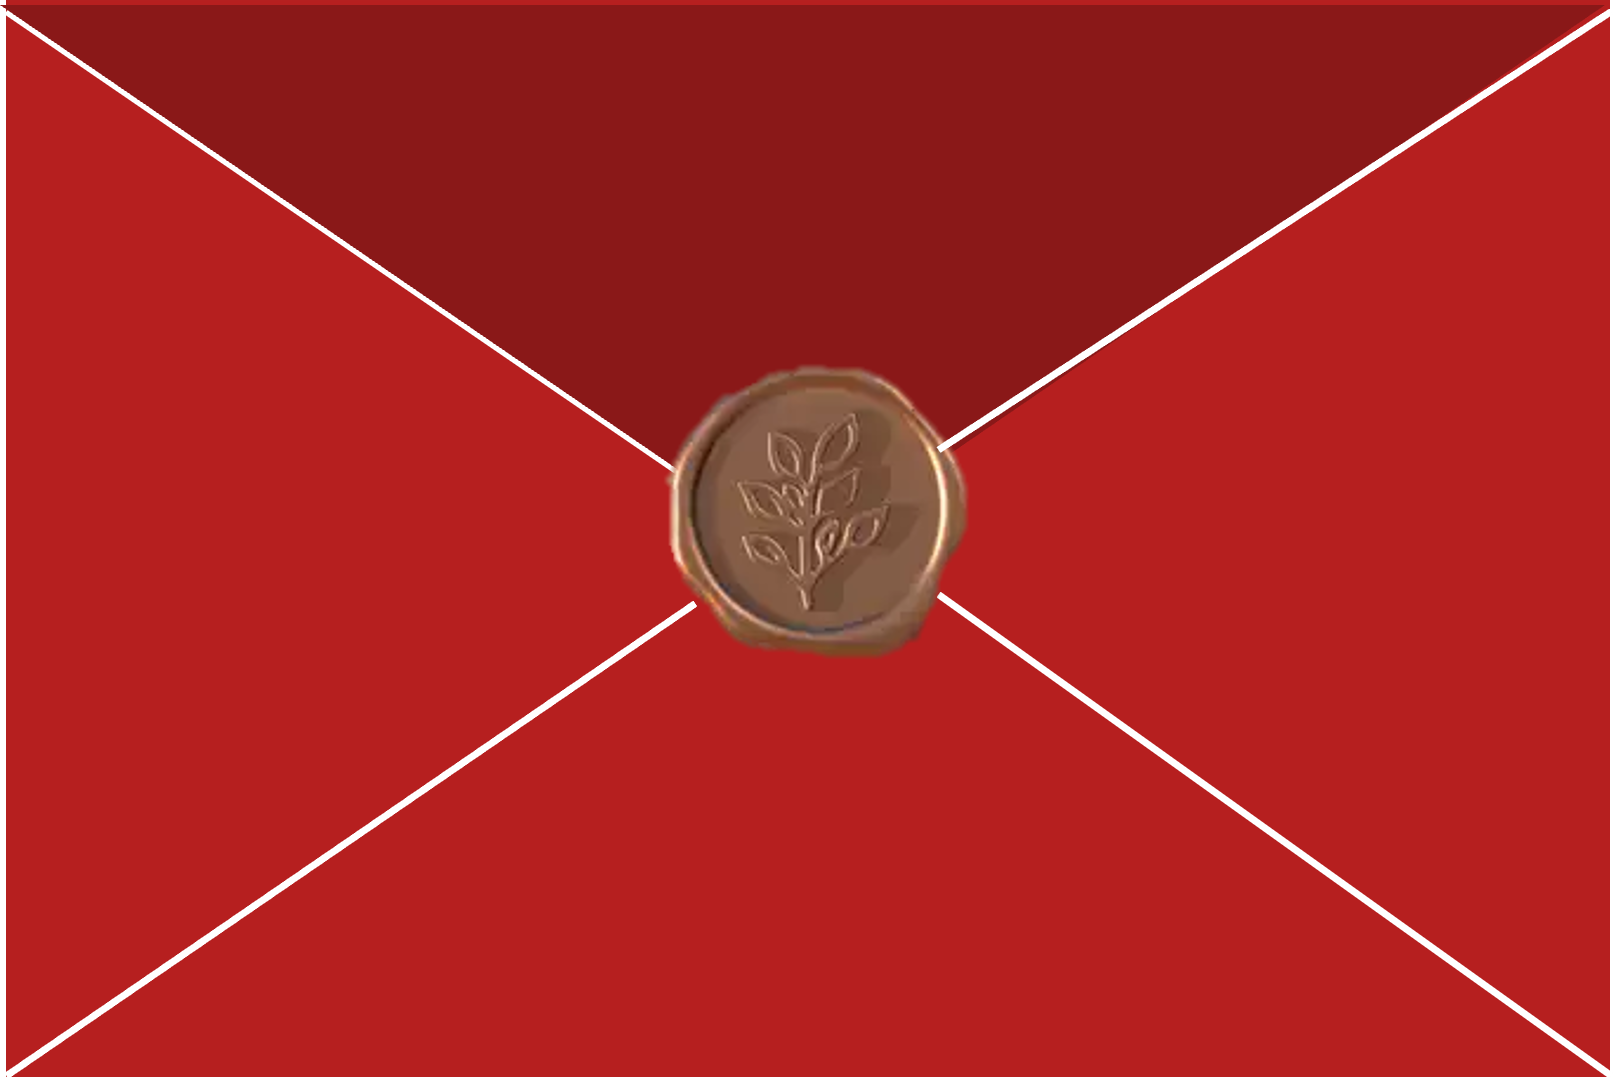
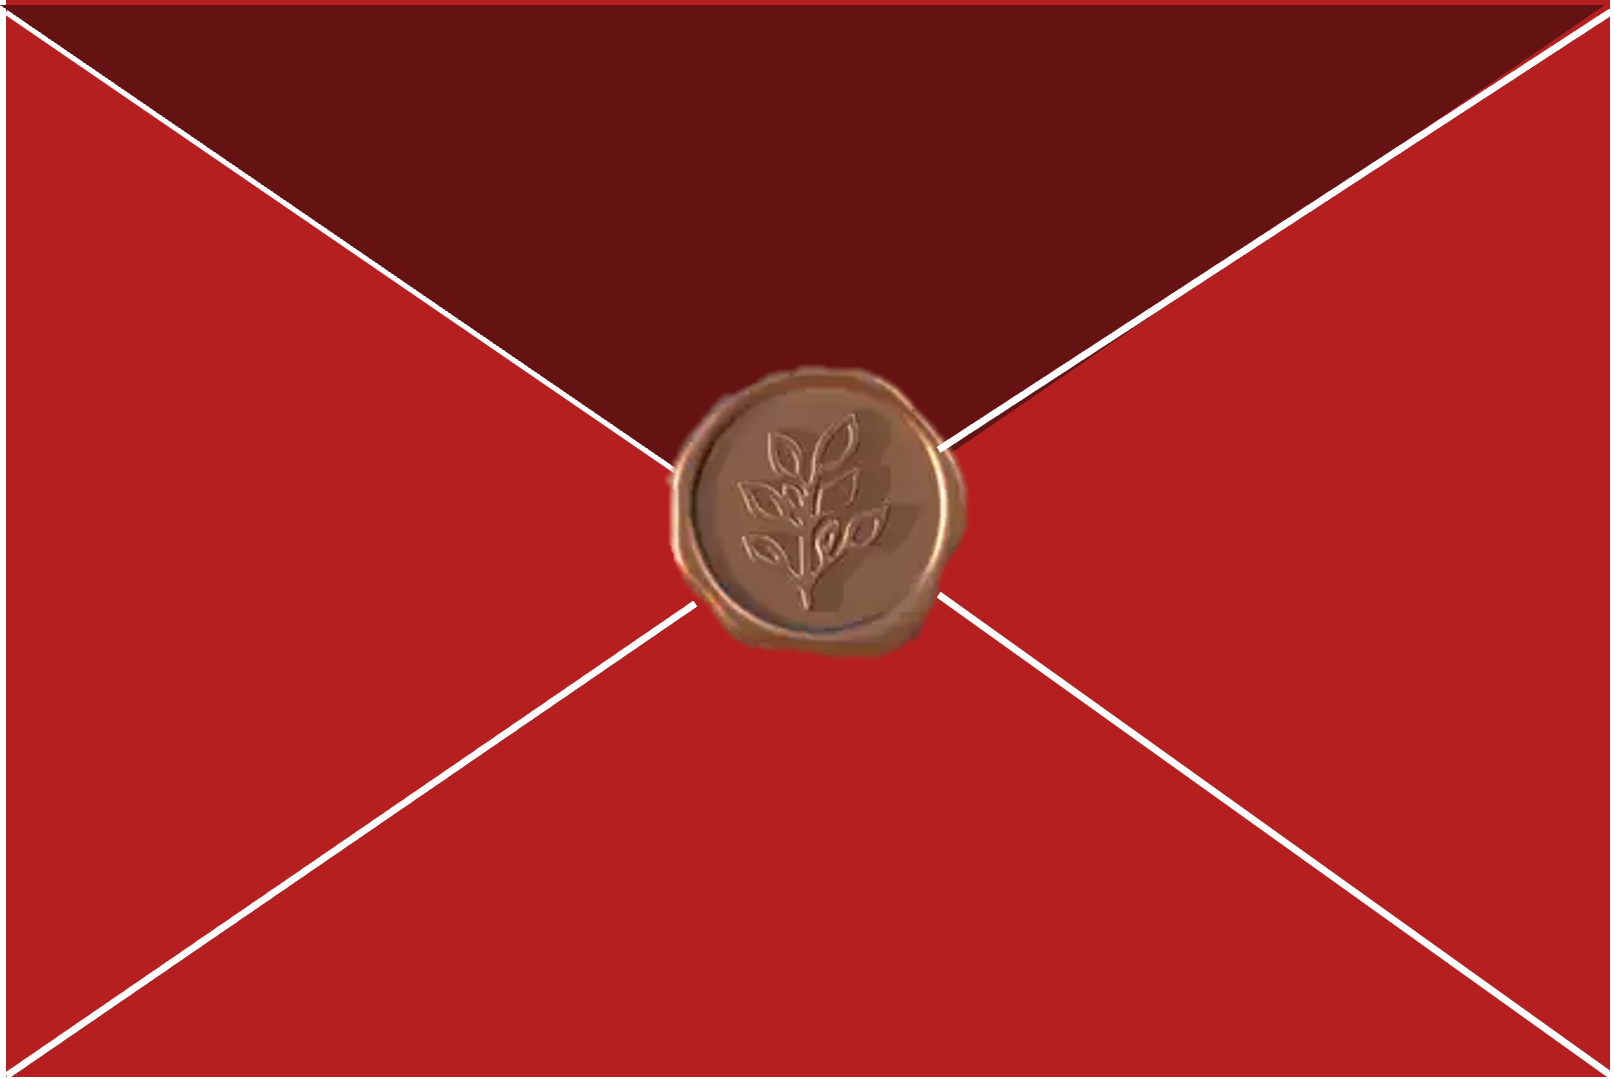
add datetime; darker envelope

Changed region(s): [[0.0, 0.0, 0.9913, 0.4282]]

diff --git a/index.html b/index.html
@@ -588,14 +588,14 @@
                                 <h4 class="font-cormorant text-lg font-bold text-blue-800 mb-3">Nhà Trai</h4>
                                 
                                 <!-- Date Time -->
-                                <!-- <div class="mb-4">
+                                <div class="mb-4">
                                     <p class="font-dancing text-base font-semibold text-blue-700 mb-1">
                                         <strong>Thứ Bảy, 03/01/2026</strong>
                                     </p>
                                     <p class="font-cormorant text-sm text-blue-600">
                                         <strong>11:00 AM</strong>
                                     </p>
-                                </div> -->
+                                </div>
                                 
                                 <!-- Address -->
                                 <div class="text-left bg-white/60 rounded-lg p-4">
@@ -621,14 +621,14 @@
                                 <h4 class="font-cormorant text-lg font-bold text-pink-800 mb-3">Nhà Gái</h4>
                                 
                                 <!-- Date Time -->
-                                <!-- <div class="mb-4">
+                                <div class="mb-4">
                                     <p class="font-dancing text-base font-semibold text-pink-700 mb-1">
-                                        <strong>Thứ Bảy, 03/01/2026</strong>
+                                        <strong>Chủ Nhật, 04/01/2026</strong>
                                     </p>
                                     <p class="font-cormorant text-sm text-pink-600">
-                                        <strong>18:00 PM</strong>
+                                        <strong>10:00 AM</strong>
                                     </p>
-                                </div> -->
+                                </div>
                                 
                                 <!-- Address -->
                                 <div class="text-left bg-white/60 rounded-lg p-4">
